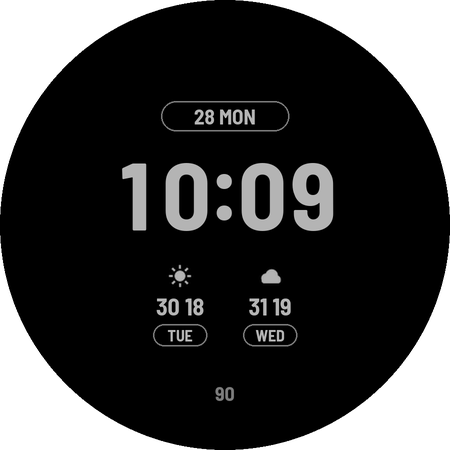
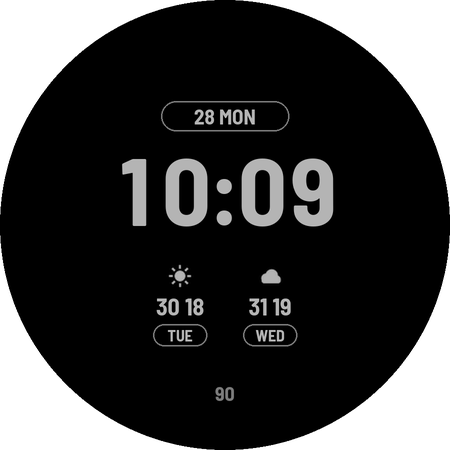
Nimbus: one weather table, one DigitalClock per clock, shared layout helpers
- One WEATHER table drives the big picture, the forecast icons and the motion
  conditions (was three hand-kept copies); drops a dead '&& false' moon branch
  from the daily-forecast lookups.
- Each clock is one DigitalClock with per-digit TimeTexts instead of one
  DigitalClock per digit.
- render_preview.py reuses ring_split() and clock_boxes() from the generator
  instead of re-deriving the layout; outlined pills share one helper.

Claude-Session: https://claude.ai/code/session_014ogRdfz4cR9gmcJ3s4FY1k

Changed region(s): [[0.3733, 0.3422, 0.7467, 0.5289], [0.2489, 0.3422, 0.3422, 0.4044], [0.28, 0.4978, 0.3422, 0.5289]]

diff --git a/faces/nimbus/design/gen_watchface.py b/faces/nimbus/design/gen_watchface.py
@@ -93,34 +93,39 @@ DOTS = {id(OUTER): (-67.5, 0, 67.5), id(INNER): (-63.5, 0, 63.5)}
 # ---- Centre -----------------------------------------------------------------------
 DISK_R = 152
 ART = (115, 62, 220, 220)          # x, y, w, h of the big weather picture
-WX_ART = [  # (expression, picture) first match wins; WEATHER.CONDITION values 0..15
-    ("[WEATHER.CONDITION] == 9", "wxl_storm"),
-    ("[WEATHER.CONDITION] == 4 || [WEATHER.CONDITION] == 6 || [WEATHER.CONDITION] == 10 || [WEATHER.CONDITION] == 12", "wxl_rain"),
-    ("[WEATHER.CONDITION] == 5 || [WEATHER.CONDITION] == 7 || [WEATHER.CONDITION] == 11", "wxl_snow"),
-    ("[WEATHER.CONDITION] == 3 || [WEATHER.CONDITION] == 13", "wxl_fog"),
-    ("[WEATHER.CONDITION] == 2", "wxl_cloud"),
-    ("[WEATHER.CONDITION] == 14 &amp;&amp; [WEATHER.IS_DAY]", "wxl_partly_day"),
-    ("[WEATHER.CONDITION] == 14", "wxl_partly_night"),
-    ("[WEATHER.CONDITION] == 15", "wxl_wind"),
-    ("([WEATHER.CONDITION] == 1 || [WEATHER.CONDITION] == 8) &amp;&amp; [WEATHER.IS_DAY]", "wxl_sun"),
-    ("[WEATHER.CONDITION] == 1 || [WEATHER.CONDITION] == 8", "wxl_moon"),
+RAIN_CODES, SNOW_CODES, STORM = (4, 6, 10, 12), (5, 7, 11), 9
+# One table for every weather lookup. WEATHER.CONDITION values 0..15; first match wins,
+# anything unmatched (0 = unknown) falls through to the default.
+#   codes, big picture (day, night), small icon (day, night)
+WEATHER = [
+    ((STORM,),     ("wxl_storm", "wxl_storm"),             ("wx_storm", "wx_storm")),
+    (RAIN_CODES,   ("wxl_rain", "wxl_rain"),               ("wx_rain", "wx_rain")),
+    (SNOW_CODES,   ("wxl_snow", "wxl_snow"),               ("wx_snow", "wx_snow")),
+    ((3, 13),      ("wxl_fog", "wxl_fog"),                 ("wx_fog", "wx_fog")),
+    ((2,),         ("wxl_cloud", "wxl_cloud"),             ("wx_cloud", "wx_cloud")),
+    ((14,),        ("wxl_partly_day", "wxl_partly_night"), ("wx_partly", "wx_partly")),
+    ((15,),        ("wxl_wind", "wxl_wind"),               ("wx_wind", "wx_wind")),
+    ((1, 8),       ("wxl_sun", "wxl_moon"),                ("wx_sun", "wx_moon")),
 ]
 
 
-def small_icons(cond, isday=None):
-    """Same mapping for the small tintable forecast icons."""
-    night = f" &amp;&amp; !{isday}" if isday else " &amp;&amp; false"
-    return [
-        (f"{cond} == 9", "wx_storm"),
-        (f"{cond} == 4 || {cond} == 6 || {cond} == 10 || {cond} == 12", "wx_rain"),
-        (f"{cond} == 5 || {cond} == 7 || {cond} == 11", "wx_snow"),
-        (f"{cond} == 3 || {cond} == 13", "wx_fog"),
-        (f"{cond} == 2", "wx_cloud"),
-        (f"{cond} == 14", "wx_partly"),
-        (f"{cond} == 15", "wx_wind"),
-        (f"({cond} == 1 || {cond} == 8){night}", "wx_moon"),
-        (f"{cond} == 1 || {cond} == 8", "wx_sun"),
-    ]
+def any_of(src, codes):
+    e = " || ".join(f"{src} == {v}" for v in codes)
+    return f"({e})" if len(codes) > 1 else e
+
+
+def weather_cases(src, isday=None, big=False):
+    """[(expression, resource)] for a condition source. isday=None means daytime only."""
+    out = []
+    for codes, big_res, small_res in WEATHER:
+        day, night = big_res if big else small_res
+        e = any_of(src, codes)
+        if isday and day != night:
+            out.append((f"{e} &amp;&amp; {isday}", day))
+            out.append((e, night))
+        else:
+            out.append((e, day))
+    return out
 
 
 # Lower block
@@ -180,6 +185,16 @@ def cond(exprs, cases, default=""):
     return '<Condition>\n  <Expressions>\n' + e + '  </Expressions>\n' + cs + d + '</Condition>\n'
 
 
+def outline_pill(x, y, w, h, color, thickness=1.5, fill=None):
+    r = h / 2 - 1
+    f = f'\n    <Fill color="{fill}"/>' if fill else ""
+    return (f'<PartDraw x="{x}" y="{y}" width="{w}" height="{h}">\n'
+            f'  <RoundRectangle x="1" y="1" width="{w - 2}" height="{h - 2}" cornerRadiusX="{r}" cornerRadiusY="{r}">{f}\n'
+            f'    <Stroke color="{color}" thickness="{thickness}"/>\n'
+            f'  </RoundRectangle>\n'
+            f'</PartDraw>\n')
+
+
 def image(x, y, w, h, res, tint=None, extra=""):
     t = f' tintColor="{tint}"' if tint else ""
     return (f'<PartImage x="{x}" y="{y}" width="{w}" height="{h}"{t}{extra}>\n'
@@ -197,16 +212,20 @@ def width(t, size):
     return _F[size].getlength(t)
 
 
-def ring_item(ring, a0, a1, opt):
-    oid, _, label, template, params, guard, sample = opt
-    if oid == "none":
-        return ""
+def ring_split(ring, a0, a1, label, sample):
+    """Label ends at `split`, value starts at `split + gap`, so label+sample value is centred."""
     r = ring["tr"] - ring["vs"] * 0.35           # roughly where the glyph middles sit
     deg = lambda px: math.degrees(px / r)
     gap = deg(5)
     wl, wv = deg(width(label, ring["ls"])), deg(width(sample, ring["vs"]))
-    start = (a0 + a1) / 2 - (wl + gap + wv) / 2
-    split = start + wl
+    return (a0 + a1) / 2 - (wl + gap + wv) / 2 + wl, gap
+
+
+def ring_item(ring, a0, a1, opt):
+    oid, _, label, template, params, guard, sample = opt
+    if oid == "none":
+        return ""
+    split, gap = ring_split(ring, a0, a1, label, sample)
     lab = ctext(ring, a0, split, esc(label), ring["ls"], LABEL, "END")
     val = ctext(ring, split + gap, a1, tmpl(template, params), ring["vs"], WHITE, "START")
     if guard:
@@ -258,8 +277,9 @@ def bands():
 
 def weather_art():
     x, y, w, h = ART
-    cases = [(f"a{i}", image(x, y, w, h, res)) for i, (_, res) in enumerate(WX_ART)]
-    inner = cond([(f"a{i}", e) for i, (e, _) in enumerate(WX_ART)], cases, image(x, y, w, h, "wxl_unknown"))
+    arts = weather_cases("[WEATHER.CONDITION]", "[WEATHER.IS_DAY]", big=True)
+    cases = [(f"a{i}", image(x, y, w, h, res)) for i, (_, res) in enumerate(arts)]
+    inner = cond([(f"a{i}", e) for i, (e, _) in enumerate(arts)], cases, image(x, y, w, h, "wxl_unknown"))
     return cond([("wx", f"{WX} &amp;&amp; !([WEATHER.IS_ERROR])")], [("wx", inner)],
                 image(x, y, w, h, "wxl_unknown"))
 
@@ -283,53 +303,55 @@ def motion():
                       f'<Animation interpolation="LINEAR" duration="{sec:.2f}" repeat="-1" fps="12"/></Transform>\n'
                       f'</PartDraw>\n')
         return f'<Group name="{"snow" if snow else "rain"}" x="0" y="0" width="450" height="450">\n' + ind(parts, 2) + '</Group>\n'
-    rain = " || ".join(f"[WEATHER.CONDITION] == {v}" for v in (4, 6, 9, 10, 12))
-    snow = " || ".join(f"[WEATHER.CONDITION] == {v}" for v in (5, 7, 11))
-    body = cond([("r", f"{WX} &amp;&amp; ({rain})"), ("s", f"{WX} &amp;&amp; ({snow})")],
+    rain = any_of("[WEATHER.CONDITION]", RAIN_CODES + (STORM,))
+    snow = any_of("[WEATHER.CONDITION]", SNOW_CODES)
+    body = cond([("r", f"{WX} &amp;&amp; {rain}"), ("s", f"{WX} &amp;&amp; {snow}")],
                 [("r", layer(False)), ("s", layer(True))])
     return ('<BooleanConfiguration id="motion">\n  <BooleanOption id="TRUE">\n'
             + ind(body, 4) + '  </BooleanOption>\n</BooleanConfiguration>\n')
 
 
+DATE = '<Upper>' + tmpl("%d %s", ["[DAY]", "[DAY_OF_WEEK_S]"]) + '</Upper>'
+
+
 def pill():
     x, y, w, h = PILL
-    r = h / 2
-    draw = (f'<PartDraw x="{x}" y="{y}" width="{w}" height="{h}">\n'
-            f'  <RoundRectangle x="1" y="1" width="{w - 2}" height="{h - 2}" cornerRadiusX="{r - 1}" cornerRadiusY="{r - 1}">\n'
-            f'    <Fill color="#B3000000"/>\n'
-            f'    <Stroke color="{c(2)}" thickness="2"/>\n'
-            f'  </RoundRectangle>\n'
-            f'</PartDraw>\n')
-    date = text(x + 108, y + 2, w - 122, h - 4,
-                '<Upper>' + tmpl("%d %s", ["[DAY]", "[DAY_OF_WEEK_S]"]) + '</Upper>', 22, WHITE, "END")
-    return draw + date
+    return (outline_pill(x, y, w, h, c(2), 2, "#B3000000")
+            + text(x + 108, y + 2, w - 122, h - 4, DATE, 22, WHITE, "END"))
 
 
 DIGIT = 0.53    # digit box width in em (monospaced boxes stop the time jiggling each second)
 COLON = 0.26
 
 
-def clock(size, fmt_groups, color, cy):
-    """fmt_groups: e.g. [("hh_10","hh_1"), ("mm_10","mm_1"), ("ss_10","ss_1")]"""
+def clock_boxes(size, fmt_groups, cy):
+    """[(format or ":", x, y, w, h)] in fixed boxes (monospaced, so the time doesn't jiggle).
+    fmt_groups: e.g. [("hh_10","hh_1"), ("mm_10","mm_1"), ("ss_10","ss_1")]"""
     dw, cw = round(size * DIGIT), round(size * COLON)
     total = len(fmt_groups) * 2 * dw + (len(fmt_groups) - 1) * cw
     x = round(CX - total / 2)
     top = round(cy - 0.65 * size)   # Barlow digits: cap middle ~0.65 em below the box top
     h = round(size * 1.2)
-    out = ""
+    out = []
     for gi, g in enumerate(fmt_groups):
         if gi:
-            out += (f'<PartText x="{x}" y="{top}" width="{cw}" height="{h}">\n'
-                    f'  <Text align="CENTER">{font(size, color, ":")}</Text>\n</PartText>\n')
+            out.append((":", x, top, cw, h))
             x += cw
         for fmt in g:
-            out += (f'<DigitalClock x="{x}" y="{top}" width="{dw}" height="{h}">\n'
-                    f'  <TimeText format="{fmt}" hourFormat="SYNC_TO_DEVICE" align="CENTER" '
-                    f'x="0" y="0" width="{dw}" height="{h}">\n'
-                    f'    <Font family="{FONT}" size="{size}" color="{color}"/>\n'
-                    f'  </TimeText>\n</DigitalClock>\n')
+            out.append((fmt, x, top, dw, h))
             x += dw
     return out
+
+
+def clock(size, fmt_groups, color, cy):
+    boxes = clock_boxes(size, fmt_groups, cy)
+    colons = "".join(text(x, y, w, h, ":", size, color) for f, x, y, w, h in boxes if f == ":")
+    digits = "".join(f'  <TimeText format="{f}" hourFormat="SYNC_TO_DEVICE" align="CENTER" '
+                     f'x="{x}" y="{y}" width="{w}" height="{h}">\n'
+                     f'    <Font family="{FONT}" size="{size}" color="{color}"/>\n'
+                     f'  </TimeText>\n' for f, x, y, w, h in boxes if f != ":")
+    # one DigitalClock for all digits (one time binding instead of one per digit)
+    return colons + '<DigitalClock x="0" y="0" width="450" height="450">\n' + digits + '</DigitalClock>\n'
 
 
 HM = [("hh_10", "hh_1"), ("mm_10", "mm_1")]
@@ -434,14 +456,11 @@ DAYS = ["SUN", "MON", "TUE", "WED", "THU", "FRI", "SAT"]   # WFF DAY_OF_WEEK: 1 
 
 
 def forecast_block(cx, y, cond_expr, isday, hi_tmpl, hi_params, label_body, avail):
-    icons = small_icons(cond_expr, isday)
+    icons = weather_cases(cond_expr, isday)
     ic = cond([(f"i{i}", e) for i, (e, _) in enumerate(icons)],
               [(f"i{i}", image(cx - 14, y, 28, 28, r, AOD_GREY)) for i, (_, r) in enumerate(icons)])
     temps = text(cx - 45, y + 30, 90, 28, tmpl(hi_tmpl, hi_params), 24, AOD_GREY)
-    lab = (f'<PartDraw x="{cx - 28}" y="{y + 61}" width="56" height="24">\n'
-           f'  <RoundRectangle x="1" y="1" width="54" height="22" cornerRadiusX="11" cornerRadiusY="11">\n'
-           f'    <Stroke color="{AOD_DIM}" thickness="1.5"/>\n'
-           f'  </RoundRectangle>\n</PartDraw>\n'
+    lab = (outline_pill(cx - 28, y + 61, 56, 24, AOD_DIM)
            + (text(cx - 28, y + 62, 56, 22, label_body, 16, AOD_GREY) if label_body else ""))
     return cond([("ok", avail)], [("ok", ic + temps + lab)])
 
@@ -457,11 +476,7 @@ AOD_FC_X = (180, 270)
 
 def ambient():
     # date pill
-    out = (f'<PartDraw x="160" y="100" width="130" height="32">\n'
-           f'  <RoundRectangle x="1" y="1" width="128" height="30" cornerRadiusX="15" cornerRadiusY="15">\n'
-           f'    <Stroke color="{AOD_DIM}" thickness="1.5"/>\n'
-           f'  </RoundRectangle>\n</PartDraw>\n'
-           + text(160, 102, 130, 28, '<Upper>' + tmpl("%d %s", ["[DAY]", "[DAY_OF_WEEK_S]"]) + '</Upper>', 21, AOD_GREY))
+    out = outline_pill(160, 100, 130, 32, AOD_DIM) + text(160, 102, 130, 28, DATE, 21, AOD_GREY)
     out += clock(96, HM, AOD_GREY, 192)
     # forecast: daily (tomorrow, day after) from 07:00, hourly (+3h, +6h) overnight
     daily = ""

diff --git a/faces/nimbus/design/render_preview.py b/faces/nimbus/design/render_preview.py
@@ -72,17 +72,10 @@ def paste_icon(im, res, x, y, w, h, tint=None):
 
 
 def clock(d, size, groups, color, cy, sample):
-    dw, cw = round(size * g.DIGIT), round(size * g.COLON)
-    total = len(groups) * 2 * dw + (len(groups) - 1) * cw
-    x = round(g.CX - total / 2)
     digits = iter(sample.replace(":", ""))
-    for gi, grp in enumerate(groups):
-        if gi:
-            text_box(d, x, cy - size * 0.6, cw, size, ":", size, color)
-            x += cw
-        for _ in grp:
-            d.text(((x + dw / 2) * SS, cy * SS), next(digits), font=F(size), fill=color, anchor="mm")
-            x += dw
+    for f, x, y, w, h in g.clock_boxes(size, groups, cy):
+        ch = ":" if f == ":" else next(digits)
+        text_box(d, x, y, w, h, ch, size, color)
 
 
 def render(theme=0, art="wxl_partly_day", seconds=True, sample="10:30:00"):
@@ -109,11 +102,7 @@ def render(theme=0, art="wxl_partly_day", seconds=True, sample="10:30:00"):
         o = g.OPT[default]
         if o[0] == "none":
             continue
-        rr = ring["tr"] - ring["vs"] * 0.35
-        deg = lambda px: math.degrees(px / rr)
-        gap = deg(5)
-        wl, wv = deg(g.width(o[2], ring["ls"])), deg(g.width(o[6], ring["vs"]))
-        split = (a0 + a1) / 2 - (wl + gap + wv) / 2 + wl
+        split, gap = g.ring_split(ring, a0, a1, o[2], o[6])
         curved(im, o[2], ring, a0, split, ring["ls"], col(g.LABEL), "END")
         curved(im, o[6], ring, split + gap, a1, ring["vs"], col(g.WHITE), "START")
     x, y, w, h = g.ART
@@ -177,7 +166,7 @@ def finish(im):
 
 
 def lit_fraction(im):
-    px = im.convert("L").getdata()
+    px = im.convert("L").tobytes()
     return sum(1 for p in px if p > 24) / (math.pi * 225 * 225)
 
 
